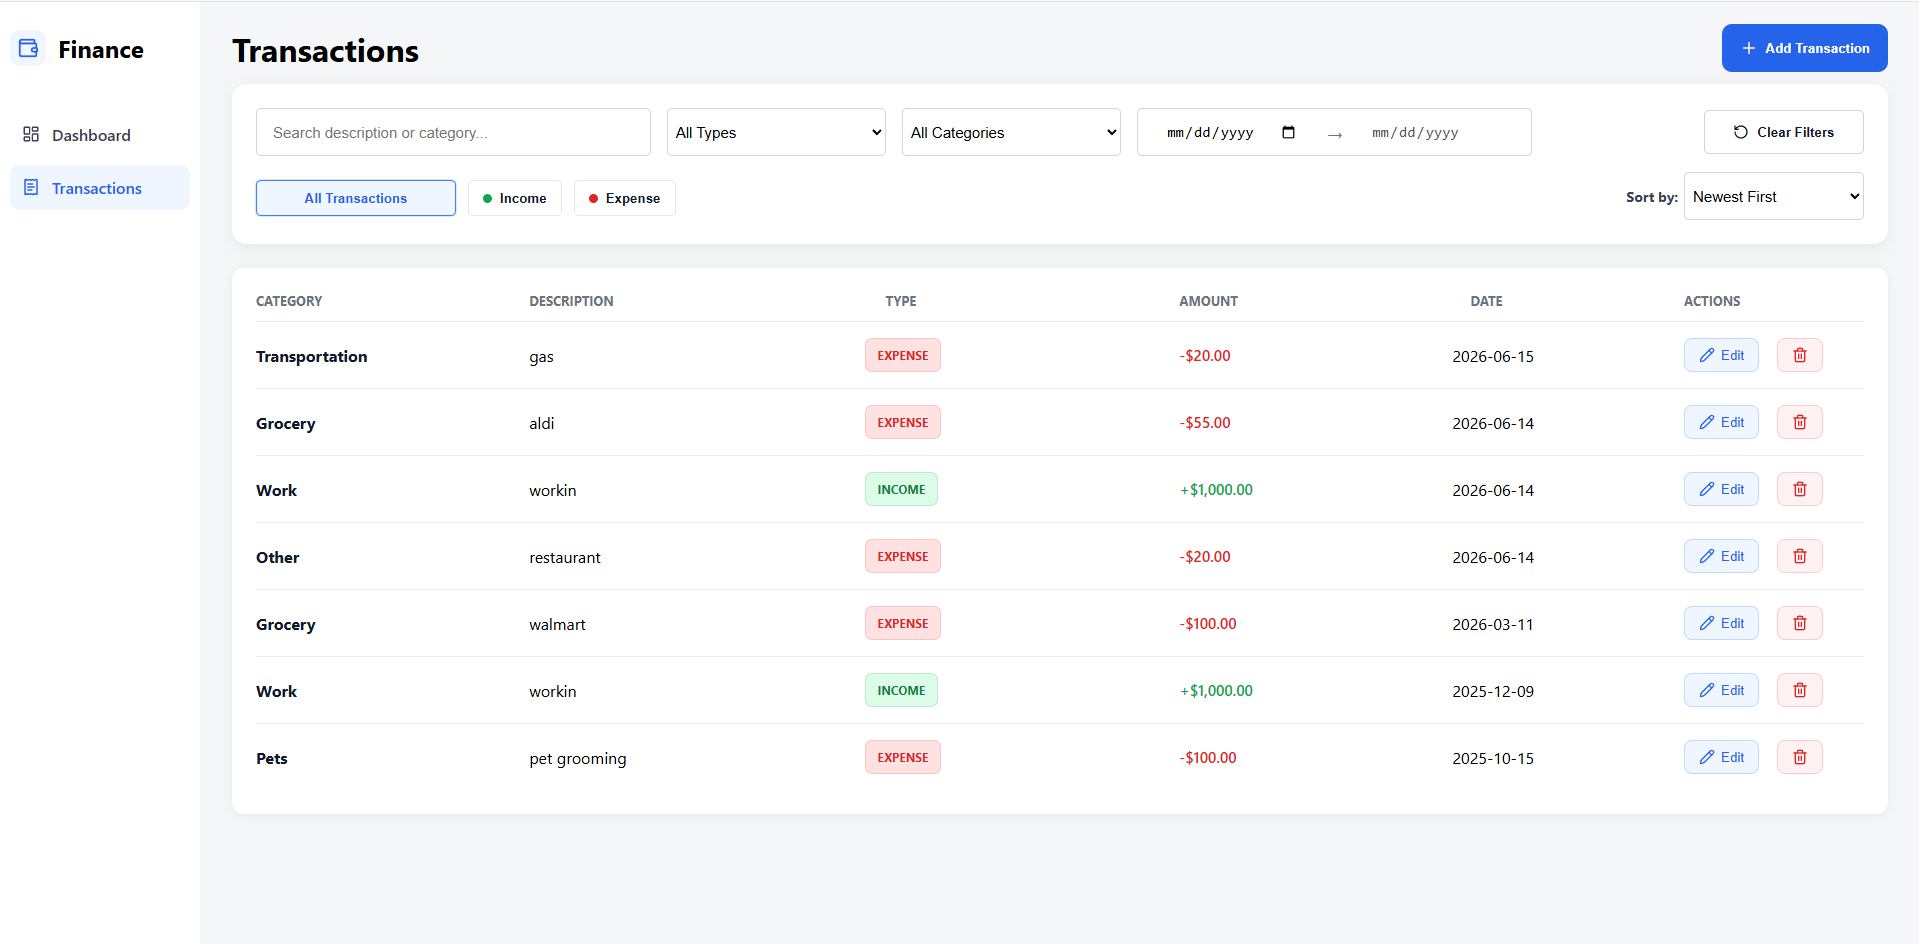
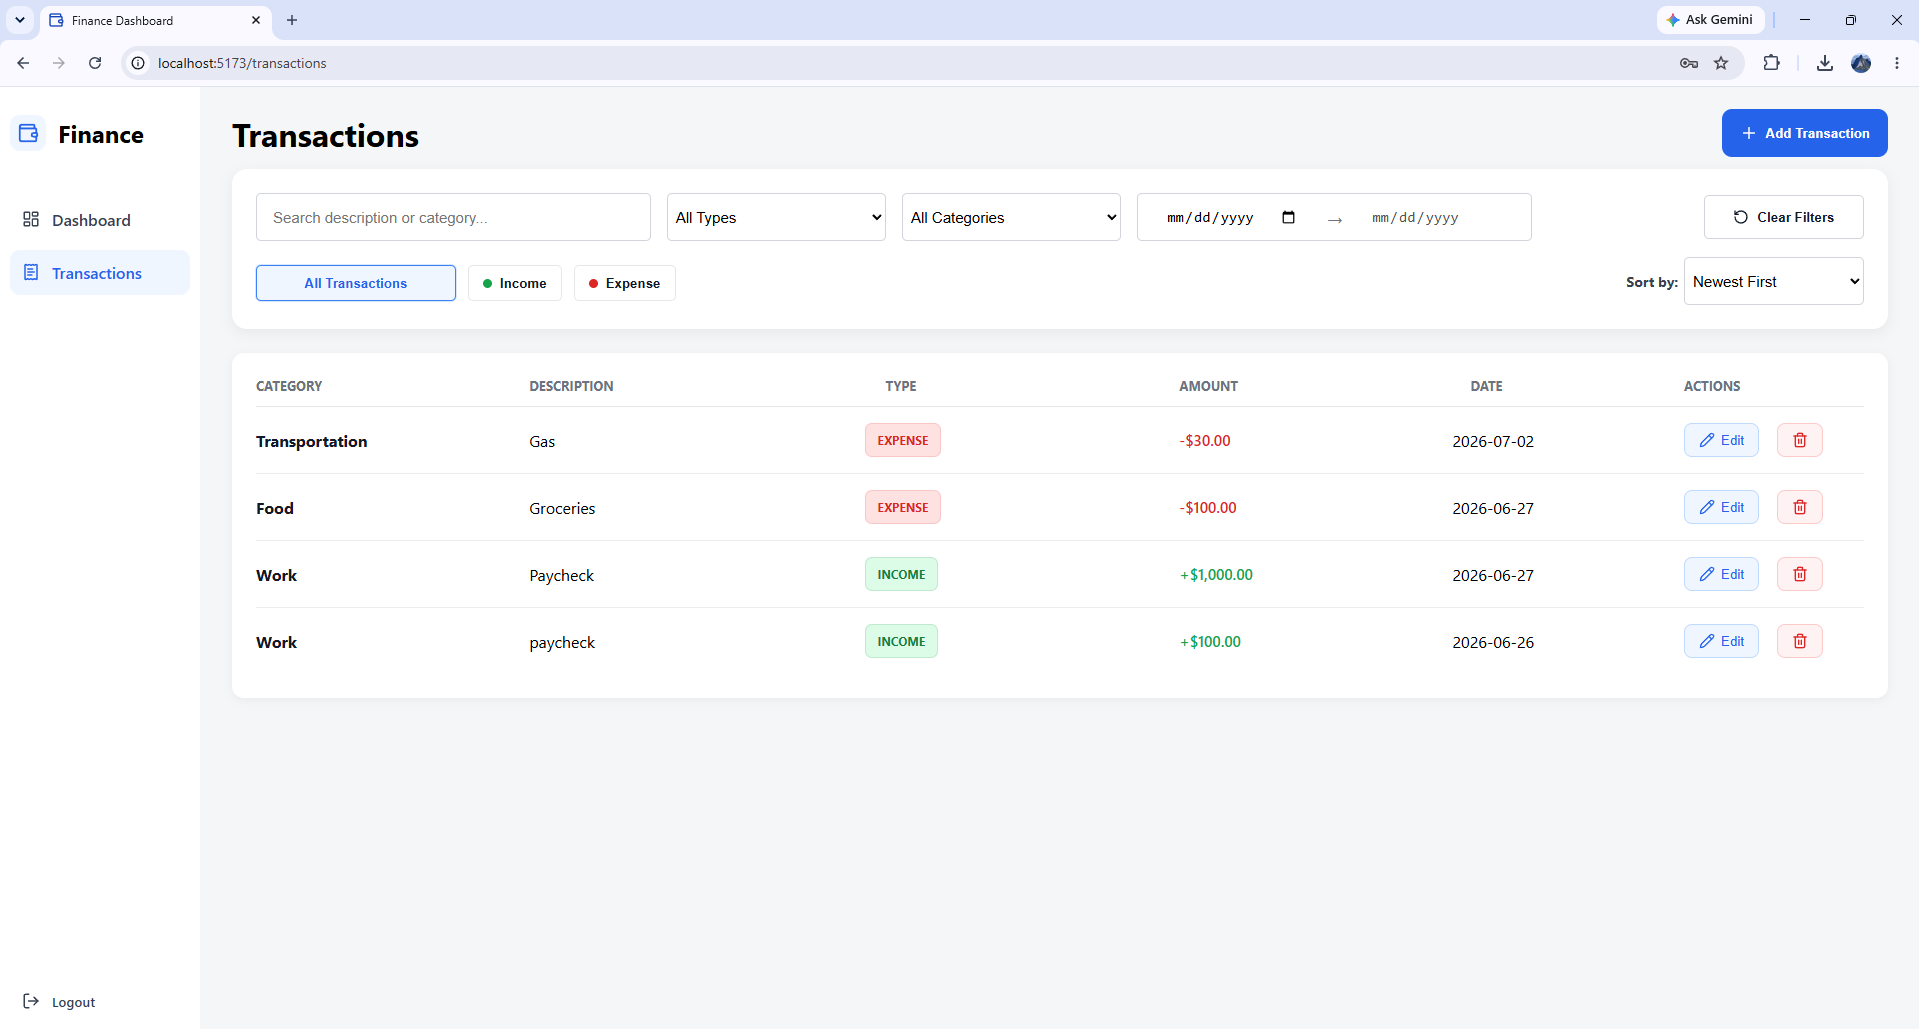
Add final README and project polish

diff --git a/README.md b/README.md
@@ -1,81 +1,252 @@
 # Personal Finance Dashboard
 
-A full-stack personal finance dashboard built with Spring Boot, React, and MySQL. The app allows users to track income and expenses, manage transactions, filter and search records, and view financial summaries through charts.
+A full-stack personal finance management application built with **Spring Boot** and **React**. Users can securely register, log in, and manage their personal finances through a modern dashboard with charts, filtering, and reporting.
+
+---
 
 ## Features
 
-- Add, edit, and delete transactions
-- Search transactions by category or description
-- Filter by type, category, and date range
-- Sort by date or amount
-- Dashboard summary cards for income, expenses, and balance
-- Spending by category chart
-- Income vs expenses trend chart
-- Recent transactions overview
-- Responsive-style modern UI with modals and confirmation dialogs
+### Authentication
 
-## Tech Stack
+- Secure user registration
+- User login with JWT authentication
+- BCrypt password hashing
+- Protected frontend routes
+- Public routes for authentication pages
+- Automatic login after successful registration
+- Custom 404 page
+- Logout functionality
 
-### Backend
+### Dashboard
 
-- Java
-- Spring Boot
-- Spring Data JPA
-- MySQL
-- Hibernate Validator
-
-### Frontend
-
-- React
-- Vite
-- React Router
-- Recharts
-- Lucide React
-- CSS Grid/Flexbox
-
-## Screenshots
-
-![Dashboard](screenshots/dashboard-chart-1.png)
-
-![Dashboard](screenshots/dashboard-chart-2.png)
-
-![Transactions](screenshots/transactions.png)
-
-![Modal](screenshots/modal.png)
-
-## Backend API Endpoints
+- Financial summary cards
+- Total Income
+- Total Expenses
+- Current Balance
+- Monthly Income vs Expense chart
+- Expense Category Breakdown chart
+- Recent transactions
 
 ### Transactions
 
-- `GET /transactions`
-- `GET /transactions/{id}`
-- `POST /transactions`
-- `PUT /transactions/{id}`
-- `DELETE /transactions/{id}`
-- `GET /transactions/recent`
+- Create transactions
+- Edit transactions
+- Delete transactions
+- Search transactions
+- Filter by:
+  - Date Range
+  - Type
+  - Category
+- Sort transactions
+- Responsive transaction table
 
-### Summary
+### Security
 
-- `GET /summary`
-- `GET /summary/category`
-- `GET /summary/monthly-trend`
+- Spring Security
+- JWT Authentication
+- Stateless Sessions
+- Password Encryption (BCrypt)
+- User-specific transaction access
+- Global exception handling
 
-## What I Learned
+---
 
-- Building REST APIs with Spring Boot
-- Using Spring Data JPA and Specifications for dynamic filtering
-- Connecting React to a backend API
-- Managing React state for forms, filters, modals, and tables
-- Creating reusable UI patterns like modals and dashboard cards
-- Displaying backend data with charts
-- Designing and polishing a full-stack dashboard UI
+# Tech Stack
 
-## Future Improvements
+## Backend
 
-- User authentication
-- Budget goals
-- Custom categories
-- CSV export
-- Dark mode
-- Backend pagination
-- Deployment
+- Java 17
+- Spring Boot
+- Spring Security
+- Spring Data JPA
+- Hibernate
+- MySQL
+- JWT
+- Maven
+
+## Frontend
+
+- React
+- React Router
+- Recharts
+- Lucide React
+- CSS
+
+## Deployment
+
+- Railway (Backend)
+- Vercel (Frontend)
+
+---
+
+# Project Structure
+
+```
+personal-finance-dashboard
+│
+├── src
+│   ├── auth
+│   ├── security
+│   ├── transaction
+│   ├── summary
+│   ├── user
+│   └── ...
+│
+├── frontend
+│   ├── src
+│   │   ├── Dashboard.jsx
+│   │   ├── Transactions.jsx
+│   │   ├── Login.jsx
+│   │   ├── Register.jsx
+│   │   ├── ProtectedRoute.jsx
+│   │   ├── PublicRoute.jsx
+│   │   └── ...
+│   └── ...
+│
+└── pom.xml
+```
+
+---
+
+# Running Locally
+
+## Backend
+
+From the project root:
+
+```bash
+./mvnw spring-boot:run
+```
+
+Backend runs on:
+
+```
+http://localhost:8080
+```
+
+---
+
+## Frontend
+
+Open a second terminal.
+
+Navigate to the frontend folder:
+
+```bash
+cd frontend
+```
+
+Install dependencies:
+
+```bash
+npm install
+```
+
+Start the development server:
+
+```bash
+npm run dev
+```
+
+Frontend runs on:
+
+```
+http://localhost:5173
+```
+
+---
+
+# Environment Variables
+
+## Backend
+
+Configure the following environment variables before running the application:
+
+```
+DB_URL=
+DB_USERNAME=
+DB_PASSWORD=
+JWT_SECRET=
+```
+
+## Frontend
+
+```
+VITE_API_URL=
+```
+
+---
+
+# Authentication Flow
+
+1. User registers or logs in.
+2. Spring Security validates credentials.
+3. Backend generates a signed JWT.
+4. React stores the JWT.
+5. Every protected request includes:
+
+```http
+Authorization: Bearer <token>
+```
+
+6. Protected routes verify authentication before rendering pages.
+
+---
+
+# Future Improvements
+
+- Refresh Tokens
+- Password Reset
+- Email Verification
+- User Profile
+- Export Reports
+- Dark Mode
+- Multi-currency Support
+
+---
+
+# Screenshots
+
+## Register
+
+![Register](screenshots/register.png)
+
+## Login
+
+![Login](screenshots/login.png)
+
+## Dashboard
+
+![Dashboard](screenshots/dashboard.png)
+
+## Transactions
+
+![Transactions](screenshots/transactions.png)
+
+---
+
+# Technical Highlights
+
+This project strengthened my understanding of:
+
+- Full-stack application development
+- Spring Boot architecture
+- REST API design
+- JWT authentication
+- Spring Security
+- React state management
+- React Router
+- Protected routes
+- Responsive frontend development
+- MySQL database design
+- Secure authentication practices
+- Git version control
+- Deploying applications with Railway and Vercel
+
+---
+
+# Author
+
+**Ethan Duenas**
+
+Bachelor of Science in Computer Science
